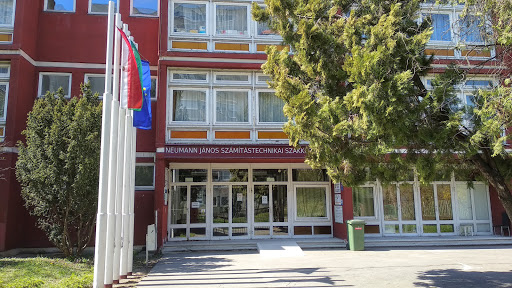
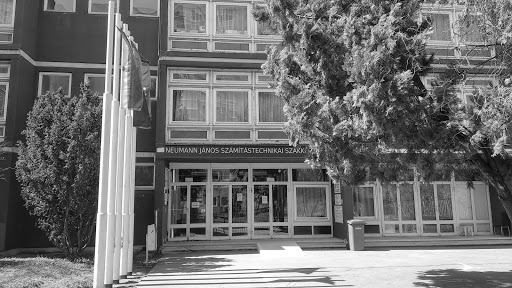
img/neumann_iskola_card.jpg fekete-fehér lett, főoldalon bekerült egy rövid ismertetó Neumannról a header alá.

diff --git a/index.html b/index.html
@@ -34,7 +34,19 @@
         </nav>
         <header>
         </header>
-        <p>János Neumann with the ENIAC, one of the first electric computers, in 1945.</p>
+        <div class="card w-75 mx-auto my-5">
+            <div class="card-header">
+            Wikipédia
+            </div>
+            <div class="card-body">
+                <blockquote class="blockquote mb-0">
+                    <p>Margittai Neumann János magyar születésű matematikus. Kvantummechanikai elméleti kutatásai mellett a digitális számítógép elvi alapjainak lefektetésével vált ismertté.</p>
+                    <!-- <footer class="blockquote-footer">Someone famous in <cite title="Source Title">Source Title</cite></footer> -->
+                </blockquote>
+            </div>
+        </div>
+        <div class="well well-lg"></div>
+        <!-- <p>János Neumann with the ENIAC, one of the first electric computers, in 1945.</p> -->
     </div>
     <main>
         <div id="grid">
